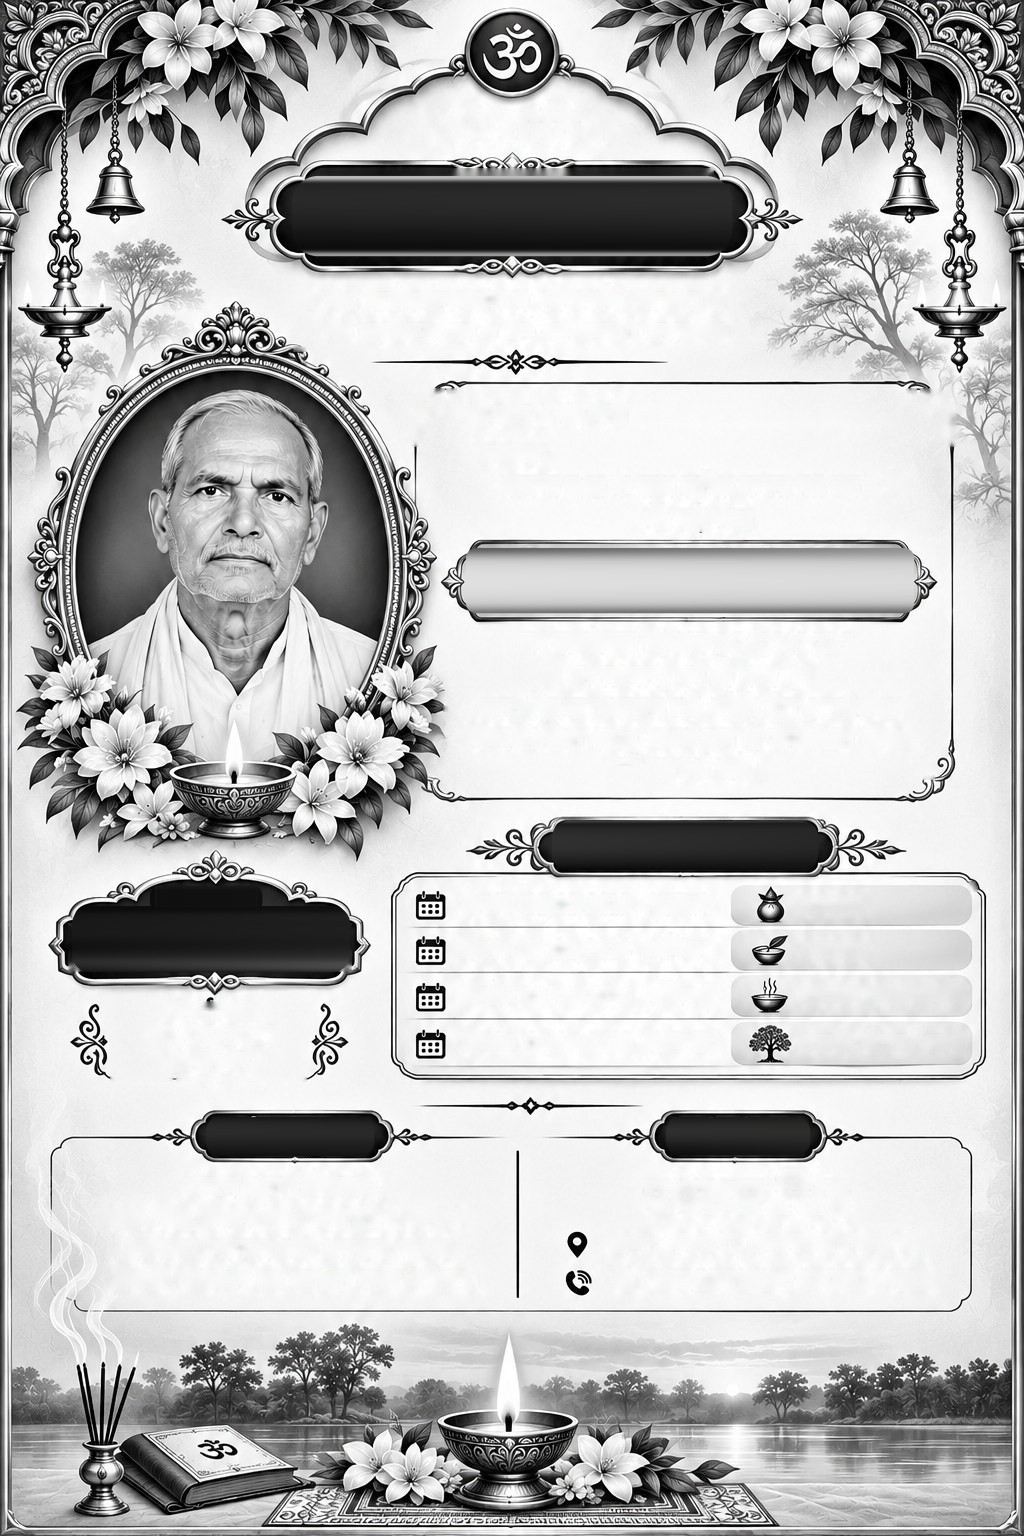
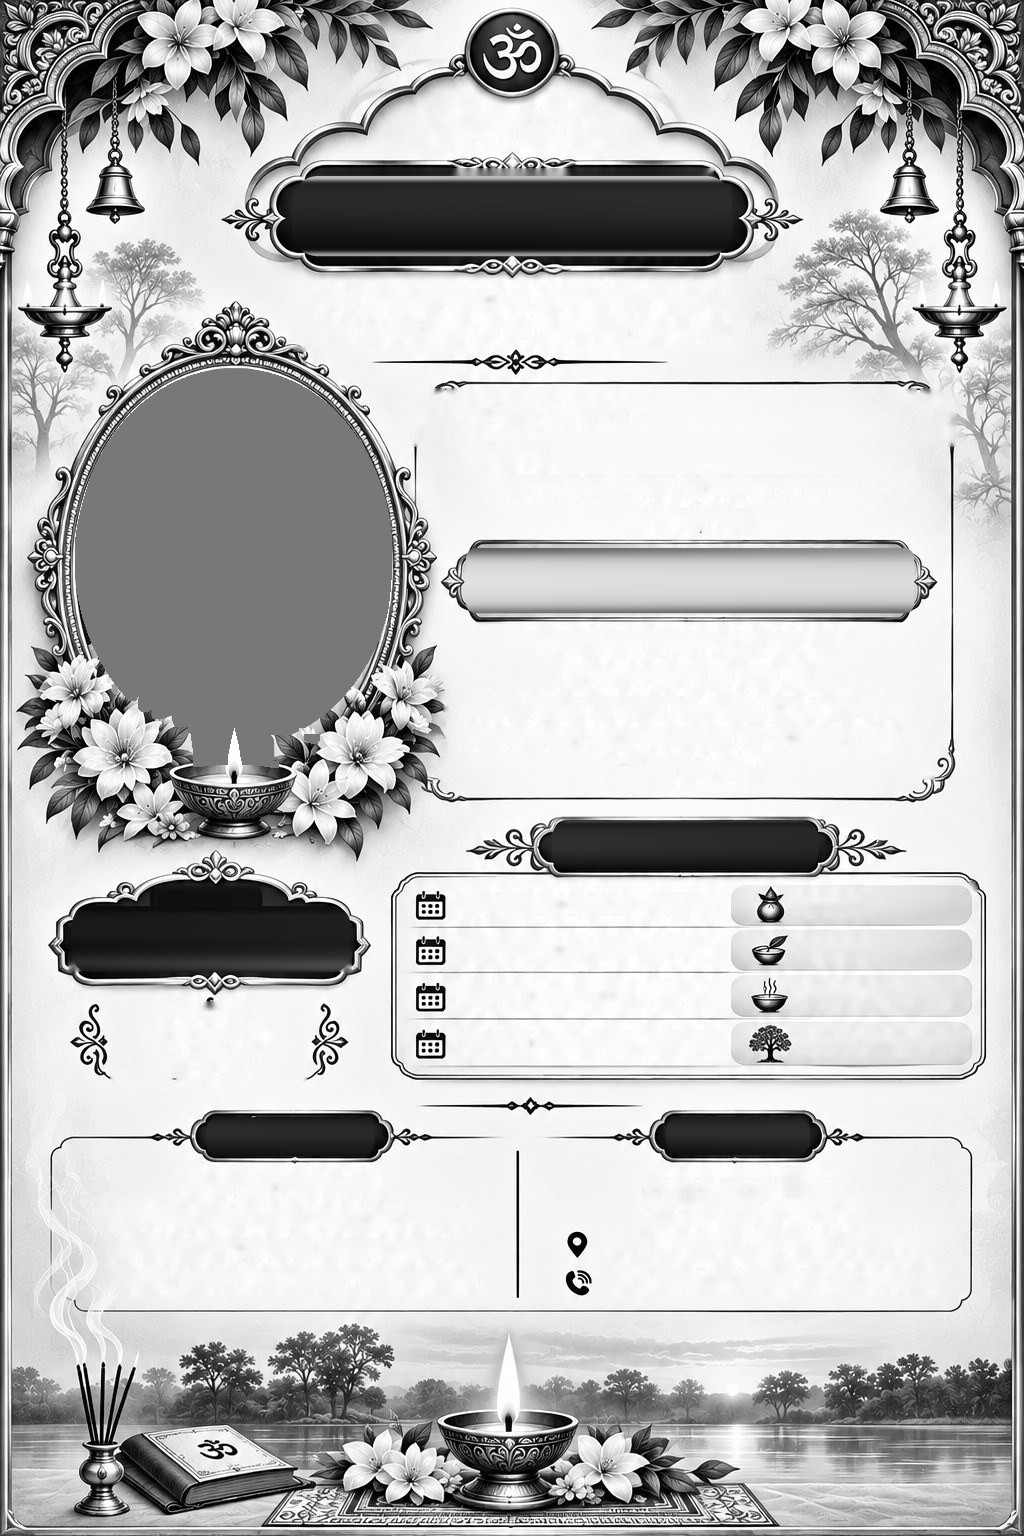
Add files via upload

Changed region(s): [[0.0625, 0.2188, 0.4062, 0.5]]

diff --git a/lib/render-card.ts b/lib/render-card.ts
@@ -9,9 +9,11 @@ import type { CardContent } from "@/lib/card-types";
  * - No DOM-to-image conversion, no CSS container units: works on old Android / iOS Safari.
  */
 export type Design = 1 | 2;
-export const DESIGNS: Record<Design, { w: number; h: number; plate: string; portrait: string; name: string }> = {
-  1: { w: 1024, h: 1536, plate: "/shradhanjali-plate.jpg", portrait: "/default-portrait.jpg", name: "कार्ड 1 · खड़ा (Portrait)" },
-  2: { w: 1536, h: 1024, plate: "/shradhanjali-plate-2.jpg", portrait: "/default-portrait-2.jpg", name: "कार्ड 2 · आड़ा (Landscape)" },
+/** mask = the exact visible shape of the photo (frame opening minus the flowers that sit in front of it). x/y/w/h = where the mask PNG sits on the card. */
+type PhotoMask = { src: string; x: number; y: number; w: number; h: number; fy: number };
+export const DESIGNS: Record<Design, { w: number; h: number; plate: string; portrait: string; name: string; mask: PhotoMask }> = {
+  1: { w: 1024, h: 1536, plate: "/shradhanjali-plate.jpg", portrait: "/default-portrait.jpg", name: "कार्ड 1 · खड़ा (Portrait)", mask: { src: "/portrait-mask-1.png", x: 74, y: 368, w: 319, h: 401, fy: 0.1 } },
+  2: { w: 1536, h: 1024, plate: "/shradhanjali-plate-2.jpg", portrait: "/default-portrait-2.jpg", name: "कार्ड 2 · आड़ा (Landscape)", mask: { src: "/portrait-mask-2.png", x: 44, y: 85, w: 316, h: 442, fy: 0.1 } },
 };
 export const W = 1024;
 export const H = 1536;
@@ -25,7 +27,7 @@ const FAM: Record<Fam, string> = { serif: SERIF, sans: SANS, mukta: MUKTA };
 const INK = "#0a0a0a";
 const WHITE = "#ffffff";
 
-export type CardImages = { plate: HTMLImageElement; portrait: HTMLImageElement | null };
+export type CardImages = { plate: HTMLImageElement; portrait: HTMLImageElement | null; mask: HTMLImageElement | null };
 
 /* ---------- asset loading (cached) ---------- */
 const imgCache = new Map<string, Promise<HTMLImageElement>>();
@@ -50,7 +52,8 @@ export async function loadCardImages(portraitUrl?: string, design: Design = 1): 
   const plate = loadImage(DESIGNS[design].plate);
   const fallback = () => loadImage(DESIGNS[design].portrait);
   const portrait = (portraitUrl ? loadImage(portraitUrl, true).catch(fallback) : fallback()).catch(() => null);
-  return { plate: await plate, portrait: await portrait };
+  const mask = loadImage(DESIGNS[design].mask.src).catch(() => null);
+  return { plate: await plate, portrait: await portrait, mask: await mask };
 }
 
 const FONT_SPECS: [string, string][] = [
@@ -144,12 +147,36 @@ function stack(ctx: Ctx, paras: string[], z: { x: number; y: number; w: number; 
   });
 }
 
-/* parts of the plate that must stay IN FRONT of the portrait (lilies, leaves, diya flame) */
-const FOREGROUND_1: [number, number][][] = [
-  [[80,646],[104,648],[118,664],[120,684],[142,688],[150,700],[165,704],[170,712],[180,712],[192,725],[196,745],[190,764],[70,764],[70,646]],
-  [[395,640],[372,646],[358,664],[352,678],[342,684],[330,700],[318,704],[308,716],[296,728],[270,732],[268,748],[270,764],[400,764],[400,640]],
-  [[221,748],[233,716],[245,748]],
-];
+/** Place a photo inside a frame: "cover" fit x zoom, moved by the admin's X / Y sliders (percent of the frame), never leaving gaps. */
+function placePortrait(ctx: Ctx, im: HTMLImageElement, bx: number, by: number, bw: number, bh: number, c: CardContent, biasY: number) {
+  const k = Math.min(3, Math.max(1, Number((c as any).portraitZoom) || 1));
+  const px = Math.min(60, Math.max(-60, Number((c as any).portraitX) || 0));
+  const py = Math.min(60, Math.max(-60, Number((c as any).portraitY) || 0));
+  const s = Math.max(bw / im.width, bh / im.height) * k;
+  const dw = im.width * s, dh = im.height * s;
+  let x = bx + (bw - dw) / 2 + (px / 100) * bw;
+  let y = by + (bh - dh) * biasY + (py / 100) * bh;
+  x = Math.min(bx, Math.max(bx + bw - dw, x));
+  y = Math.min(by, Math.max(by + bh - dh, y));
+  ctx.drawImage(im, x, y, dw, dh);
+}
+
+/** Draw the photo, shaped by the design's mask so it sits exactly inside the frame and behind the flowers. */
+function drawPortrait(ctx: Ctx, a: DrawArgs, design: Design) {
+  const { images, c } = a, M = DESIGNS[design].mask;
+  if (!images.portrait) return;
+  const sc = Math.max(1, ctx.getTransform().a);
+  const off = document.createElement("canvas");
+  off.width = Math.ceil(M.w * sc); off.height = Math.ceil(M.h * sc);
+  const o = off.getContext("2d")!;
+  o.scale(sc, sc); o.imageSmoothingQuality = "high";
+  o.fillStyle = "#e6e6e6"; o.fillRect(0, 0, M.w, M.h);
+  o.translate(-M.x, -M.y);
+  placePortrait(o, images.portrait, M.x, M.y, M.w, M.h, c, M.fy);
+  o.setTransform(1, 0, 0, 1, 0, 0);
+  if (images.mask) { o.globalCompositeOperation = "destination-in"; o.drawImage(images.mask, 0, 0, off.width, off.height); }
+  ctx.drawImage(off, M.x, M.y, M.w, M.h);
+}
 
 /* ---------- main draw ---------- */
 export type DrawArgs = {
@@ -163,25 +190,7 @@ export function drawCard(ctx: Ctx, a: DrawArgs) {
   ctx.fillStyle = WHITE; ctx.fillRect(0, 0, W, H);
   ctx.drawImage(images.plate, 0, 0, W, H);
 
-  // portrait: fills the WHOLE oval opening of the frame (hides the artwork's sample photo),
-  // then the lilies / flame of the plate are painted back on top.
-  if (images.portrait) {
-    const im = images.portrait, bx = 76, by = 368, bw = 316, bh = 376;
-    ctx.save();
-    ctx.beginPath(); ctx.ellipse(234, 556, 158, 188, 0, 0, Math.PI * 2); ctx.clip();
-    ctx.fillStyle = "#2a2a2a"; ctx.fillRect(bx, by, bw, bh);
-    const s = Math.max(bw / im.width, bh / im.height);
-    const dw = im.width * s, dh = im.height * s;
-    ctx.drawImage(im, bx + (bw - dw) / 2, by + (bh - dh) * 0.1, dw, dh);
-    ctx.restore();
-    for (const poly of FOREGROUND_1) {
-      ctx.save(); ctx.beginPath();
-      poly.forEach(([x, y], i) => (i ? ctx.lineTo(x, y) : ctx.moveTo(x, y)));
-      ctx.closePath(); ctx.clip();
-      ctx.drawImage(images.plate, 0, 0, W, H);
-      ctx.restore();
-    }
-  }
+  drawPortrait(ctx, a, 1);
 
   // ---- header
   box(ctx, norm(c.omText), { x: 400, y: 100, w: 225, h: 46, size: 36, weight: 500, fam: "sans" });
@@ -285,17 +294,7 @@ function drawCard2(ctx: Ctx, a: DrawArgs) {
   ctx.fillStyle = WHITE; ctx.fillRect(0, 0, 1536, 1024);
   ctx.drawImage(images.plate, 0, 0, 1536, 1024);
 
-  // portrait fills the whole frame opening (x 46..357, y 87..491); roses sit in front of it
-  if (images.portrait) {
-    const px = 46, py = 87, pw = 311.5, ph = 404;
-    ctx.save();
-    ctx.beginPath(); ctx.rect(px, py, pw, ph); ctx.clip();
-    ctx.fillStyle = "#e9e9e9"; ctx.fillRect(px, py, pw, ph);
-    const im = images.portrait, s = Math.max(pw / im.width, ph / im.height);
-    const dw = im.width * s, dh = im.height * s;
-    ctx.drawImage(im, px + (pw - dw) / 2, py + (ph - dh) * 0.12, dw, dh);
-    ctx.restore();
-  }
+  drawPortrait(ctx, a, 2);
 
   const B = 700;
   // header

diff --git a/app/page.tsx b/app/page.tsx
@@ -15,7 +15,7 @@ export default function Home() {
  const [content,setContent]=useState<CardContent>(defaultContent as CardContent);
  const [customCss,setCustomCss]=useState("");
  const [recipient,setRecipient]=useState("");
- const [recipientTitle,setRecipientTitle]=useState<"श्रीमान्"|"श्रीमती">("श्रीमान्");
+ const [recipientTitle,setRecipientTitle]=useState<"श्रीमान"|"श्रीमती">("श्रीमान");
  const [format,setFormat]=useState<Fmt>("pdf");
  const [design,setDesign]=useState<Design>(1);
  const [status,setStatus]=useState("");
@@ -39,8 +39,7 @@ export default function Home() {
   if(pending.current?.key===key) return pending.current.p;
   const p=(async()=>{
    const cv=document.createElement("canvas");
-   // cast needed only until render-card's type is updated to "श्रीमान्"
-   await renderToCanvas(cv,{c:content,recipient,recipientTitle: recipientTitle as any,design},EXPORT_SCALE);
+   await renderToCanvas(cv,{c:content,recipient,recipientTitle,design},EXPORT_SCALE);
    const jpg:string=cv.toDataURL("image/jpeg",0.9);
    let file:File;
    if(format==="jpg"){
@@ -103,7 +102,7 @@ export default function Home() {
     <h2>कार्ड व्यक्तिगत करें</h2>
     <label>प्राप्तकर्ता का संबोधन</label>
     <div className="recipient-title-options" role="group" aria-label="प्राप्तकर्ता का संबोधन चुनें">
-      <label className="recipient-check"><input type="checkbox" checked={recipientTitle==="श्रीमान्"} onChange={()=>setRecipientTitle("श्रीमान्")}/> <span>श्रीमान्</span></label>
+      <label className="recipient-check"><input type="checkbox" checked={recipientTitle==="श्रीमान"} onChange={()=>setRecipientTitle("श्रीमान")}/> <span>श्रीमान</span></label>
       <label className="recipient-check"><input type="checkbox" checked={recipientTitle==="श्रीमती"} onChange={()=>setRecipientTitle("श्रीमती")}/> <span>श्रीमती</span></label>
     </div>
     <label htmlFor="recipient-name">नाम लिखें</label><input id="recipient-name" value={recipient} onChange={e=>setRecipient(e.target.value)} placeholder="यहाँ नाम लिखें" maxLength={32}/>
@@ -121,7 +120,7 @@ export default function Home() {
     {status&&<p className="public-status" role="status">{status}</p>}
     <p className="privacy-hint">मूल पोस्टर का डिजाइन और फोटो बदले बिना रखा गया है।</p>
    </aside>
-   <section className="preview-wrap"><style>{customCss}</style><div className="preview-label"><b>कार्ड का Preview</b><span>{ready?"✓ फाइल तैयार":"फाइल बन रही है…"}</span></div><div className="preview-scroll"><div><MemorialCard c={c} recipient={recipient} recipientTitle={recipientTitle as any} design={design}/></div></div></section>
+   <section className="preview-wrap"><style>{customCss}</style><div className="preview-label"><b>कार्ड का Preview</b><span>{ready?"✓ फाइल तैयार":"फाइल बन रही है…"}</span></div><div className="preview-scroll"><div><MemorialCard c={c} recipient={recipient} recipientTitle={recipientTitle} design={design}/></div></div></section>
   </section>
  </main>
 }

diff --git a/app/admin/page.tsx b/app/admin/page.tsx
@@ -33,7 +33,7 @@ export default function AdminPage(){
   if(!file.type.startsWith("image/")){setStatus("कृपया केवल image file चुनें।");return;}
   setBusy(true);setStatus("फोटो तैयार हो रही है...");
   try{
-   const bmp=await createImageBitmap(file);
+   const bmp=await createImageBitmap(file,{imageOrientation:"from-image"});
    const max=1000,sc=Math.min(1,max/Math.max(bmp.width,bmp.height));
    const cv=document.createElement("canvas");cv.width=Math.round(bmp.width*sc);cv.height=Math.round(bmp.height*sc);
    cv.getContext("2d")!.drawImage(bmp,0,0,cv.width,cv.height);
@@ -62,6 +62,13 @@ export default function AdminPage(){
        <div className="photo-row"><div className="photo-thumb"><img src={content.portraitUrl||"/default-portrait.jpg"} alt="portrait"/></div>
        <div><input type="file" accept="image/*" disabled={busy} onChange={e=>{const f=e.target.files?.[0];if(f)uploadPhoto(f);e.target.value="";}}/>
        {content.portraitUrl&&<button type="button" className="add-event" onClick={()=>update("portraitUrl","")}>मूल फोटो वापस लगाएँ</button>}</div></div>
+       <div className="photo-adjust">
+        <label>ज़ूम: {Number(content.portraitZoom||1).toFixed(2)}×<input type="range" min="1" max="2.5" step="0.05" value={content.portraitZoom??1} onChange={e=>update("portraitZoom",Number(e.target.value))}/></label>
+        <label>दाएँ–बाएँ: {content.portraitX??0}<input type="range" min="-50" max="50" step="1" value={content.portraitX??0} onChange={e=>update("portraitX",Number(e.target.value))}/></label>
+        <label>ऊपर–नीचे: {content.portraitY??0}<input type="range" min="-50" max="50" step="1" value={content.portraitY??0} onChange={e=>update("portraitY",Number(e.target.value))}/></label>
+        <button type="button" className="add-event" onClick={()=>{update("portraitZoom",1);update("portraitX",0);update("portraitY",0);}}>फोटो की position reset करें</button>
+        <small>Preview में चेहरा frame के बीच लाएँ, फिर Save Changes दबाएँ। दोनों कार्ड में यही position लगेगी।</small>
+       </div>
        <small>फोटो चुनते ही upload होकर preview में दिखेगी। उसके बाद Save Changes दबाएँ।</small></div>
       <label>Family names (one per line)<textarea rows={5} value={(content.familyLines||[]).join("\n")} onChange={e=>update("familyLines",e.target.value.split("\n"))}/></label>
       <div className="event-editor"><h3>श्राद्ध कार्यक्रम</h3>{(content.events||[]).map((ev:Event,i:number)=><div className="event-fields" key={i}><input aria-label="Date" value={ev.date} placeholder="Date" onChange={e=>{const a=[...content.events];a[i]={...a[i],date:e.target.value};update("events",a)}}/><input aria-label="Day" value={ev.day} placeholder="Day" onChange={e=>{const a=[...content.events];a[i]={...a[i],day:e.target.value};update("events",a)}}/><input aria-label="Event" value={ev.title} placeholder="Event" onChange={e=>{const a=[...content.events];a[i]={...a[i],title:e.target.value};update("events",a)}}/><button onClick={()=>update("events",content.events.filter((_:Event,j:number)=>j!==i))}>×</button></div>)}<button className="add-event" onClick={()=>update("events",[...(content.events||[]),{date:"",day:"",title:""}])}>+ Add Event</button></div>

diff --git a/app/public.css b/app/public.css
@@ -43,3 +43,7 @@
 @media(max-width:700px){.preview-scroll>div{width:100%}.public-top p{display:none}}
 .design-switch{display:grid;grid-template-columns:1fr 1fr;gap:8px}
 .design-switch button{white-space:normal;line-height:1.3;padding:10px 8px;font-size:14px}
+
+.photo-adjust{display:grid;gap:8px;margin-top:10px}
+.photo-adjust label{display:grid;gap:4px;font-size:14px}
+.photo-adjust input[type=range]{width:100%}

diff --git a/lib/default-content.ts b/lib/default-content.ts
@@ -46,5 +46,8 @@ export const defaultContent = {
   "address": "ग्राम : पथरोरा, वजीरगंज (गया जी)",
   "phones": "9939341216, 9708084906",
   "footer": "॥ दिवंगत आत्मा को विनम्र श्रद्धांजलि ॥",
-  "portraitUrl": ""
+  "portraitUrl": "",
+  "portraitZoom": 1,
+  "portraitX": 0,
+  "portraitY": 0
 } as const;

diff --git a/CHANGELOG.md b/CHANGELOG.md
@@ -31,3 +31,7 @@
 
 ## 3.3.1
 - Portrait now fills the whole frame in both designs. Card 1: the photo covers the full oval opening (the plate's sample man is no longer visible) and the lilies / diya flame are painted back in front. Card 2: photo fills the frame edge to edge (no white gaps), roses stay in front. Plate 2 / default-portrait-2 regenerated.
+
+## 3.4.0
+- **Photo placement rebuilt.** Each design now has an exact photo mask (public/portrait-mask-1.png, portrait-mask-2.png): the photo is cut to the frame opening and sits *behind* the lilies / roses / diya flame, with no gaps or straight edges. Plates were cleaned of the sample photo (plate.jpg, plate-2.jpg).
+- **Admin: photo zoom + position sliders** (portraitZoom / portraitX / portraitY). Preview updates live; the same placement is used by both cards. EXIF rotation of uploaded photos is respected.
